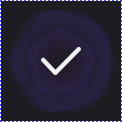
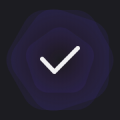
Sprint-1/step-2: OrderDetails has been completed (no styles)

diff --git a/src/components/order-details/order-details.jsx b/src/components/order-details/order-details.jsx
@@ -1,13 +1,15 @@
 import React from "react";
 
 import styles from './order-details.module.css';
+import done from '../../images/done.png';
 
-const OrderDetails = ({ num, image, description, extra }) => {
+const OrderDetails = ({ num, description, extra }) => {
+
     return (
         <>
             <div className={styles.num}>{num}</div>
             <p className={``}>идентификатор заказа</p>
-            <img src={image} alt={description} />
+            <img src={done} alt={description} />
             <div className={styles.description}>{description}</div>
             <div className={styles.wait}>{extra}</div>
         </>

diff --git a/src/components/app/app.jsx b/src/components/app/app.jsx
@@ -13,7 +13,6 @@ import styles from './app.module.css';
 const url = 'https://norma.nomoreparties.space/api/ingredients';
 const orderData = {
   num: '034536',
-  image: '../../images/done.png',
   description: 'Ваш заказ начали готовить', 
   extra: 'Дождитесь готовности на орбитальной станции'
 }
